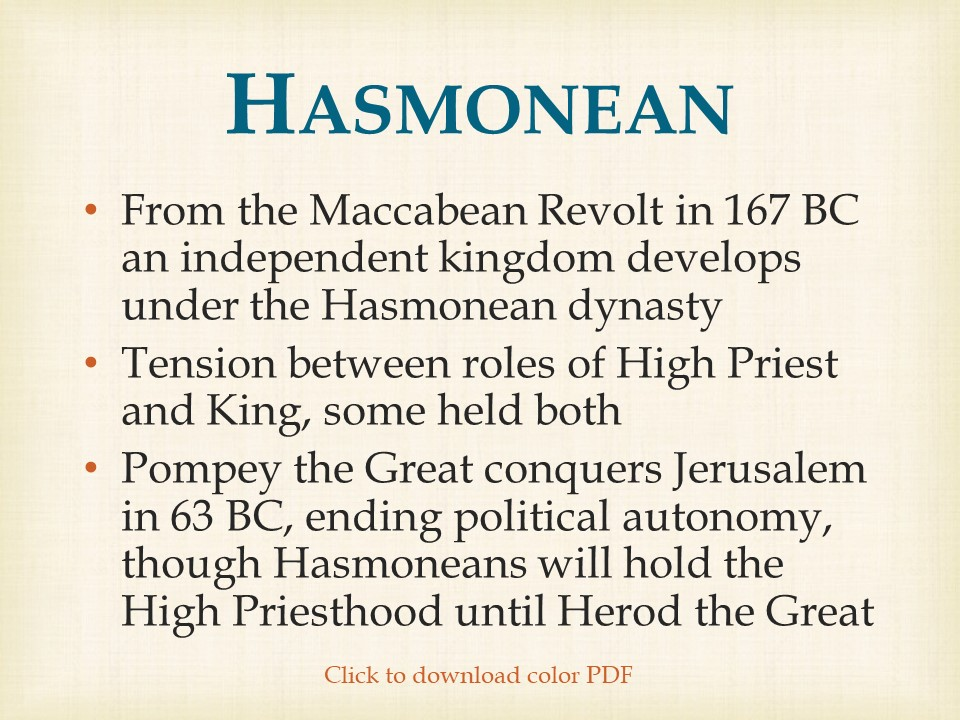
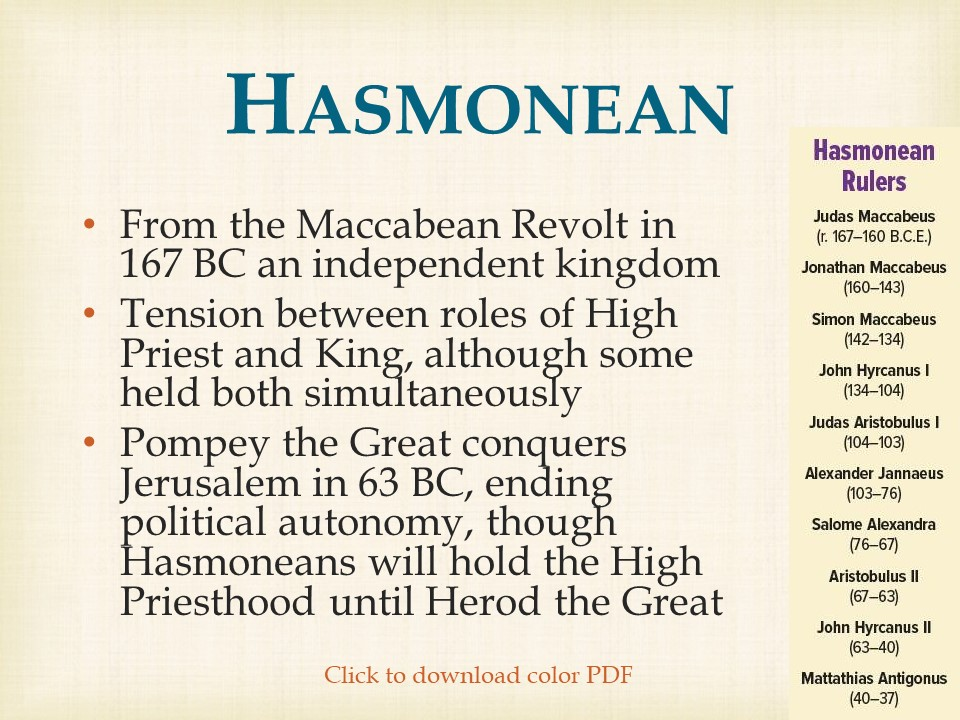
hasmonean complete
added a slide to start it. In general this phase is underrepresented

Changed region(s): [[0.0938, 0.1833, 1.0, 0.9778]]

diff --git a/Has2.html b/Has2.html
@@ -116,8 +116,8 @@ img {
         <li data-target="#myCarousel" data-slide-to="1"></li>
         <li data-target="#myCarousel" data-slide-to="2"></li>
         <li data-target="#myCarousel" data-slide-to="3"></li>
-        <!-- <li data-target="#myCarousel" data-slide-to="4"></li>
-        <li data-target="#myCarousel" data-slide-to="5"></li>
+        <li data-target="#myCarousel" data-slide-to="4"></li>
+        <!--   <li data-target="#myCarousel" data-slide-to="5"></li>
         <li data-target="#myCarousel" data-slide-to="6"></li>
         <li data-target="#myCarousel" data-slide-to="7"></li>
         <li data-target="#myCarousel" data-slide-to="8"></li> -->
@@ -133,15 +133,18 @@ img {
           <a href="pdfs/Hasmonean.pdf" download><img src="Has/Slide0.JPG" alt="Hasmonean"></a>
         </div>
         <div class="item">
-          <a href="https://members.bib-arch.org/bible-review/9/6/9" target="_blank"><img src="Has/Slide1.JPG" alt="Suffering Servant"></a>
+          <a href="https://members.bib-arch.org/biblical-archaeology-review/40/2/7" target="_blank"><img src="Has/Slide1.JPG" alt="Mattathias"></a>
+        </div>
+        <div class="item">
+          <a href="https://members.bib-arch.org/bible-review/9/6/9" target="_blank"><img src="Has/Slide2.JPG" alt="Suffering Servant"></a>
         </div>
 
         <div class="item">
-          <a href="https://members.bib-arch.org/images/bsao040104900ljpg" target="_blank"><img src="Has/Slide2.JPG" alt="Julius Caesar"></a>
+          <a id="switch2" href="https://members.bib-arch.org/archaeology-odyssey/4/1/14" target="_blank" onclick="myFunction2()"><img src="Has/Slide3.JPG" alt="Julius Caesar"></a>
         </div>
 
         <div class="item">
-          <a href="https://members.bib-arch.org/biblical-archaeology-review/31/4/2" target="_blank"><img src="Has/Slide3.JPG" alt="Herod v Hasmoneans"></a>
+          <a href="https://members.bib-arch.org/biblical-archaeology-review/31/4/2" target="_blank"><img src="Has/Slide4.JPG" alt="Herod v Hasmoneans"></a>
         </div>
 
 <!--
@@ -233,15 +236,15 @@ switch(site) {
   };
   return false;
 };
-function myFunction3() {
-  console.log(document.getElementById("switch3").href)
-  var site = document.getElementById("switch3").href;
+function myFunction2() {
+  console.log(document.getElementById("switch2").href)
+  var site = document.getElementById("switch2").href;
 switch(site) {
-  case "https://www.baslibrary.org/biblical-archaeology-review/43/1/6":
-        document.getElementById("switch3").href = "https://www.baslibrary.org/biblical-archaeology-review/38/3/4";
+  case "https://members.bib-arch.org/archaeology-odyssey/4/1/14":
+        document.getElementById("switch2").href = "https://members.bib-arch.org/biblical-archaeology-review/44/6/7";
         break;
-  case "https://www.baslibrary.org/biblical-archaeology-review/38/3/4":
-        document.getElementById("switch3").href = "https://www.baslibrary.org/biblical-archaeology-review/43/1/6";
+  case "https://members.bib-arch.org/biblical-archaeology-review/44/6/7":
+        document.getElementById("switch2").href = "https://members.bib-arch.org/archaeology-odyssey/4/1/14";
         break;
   };
   return false;
